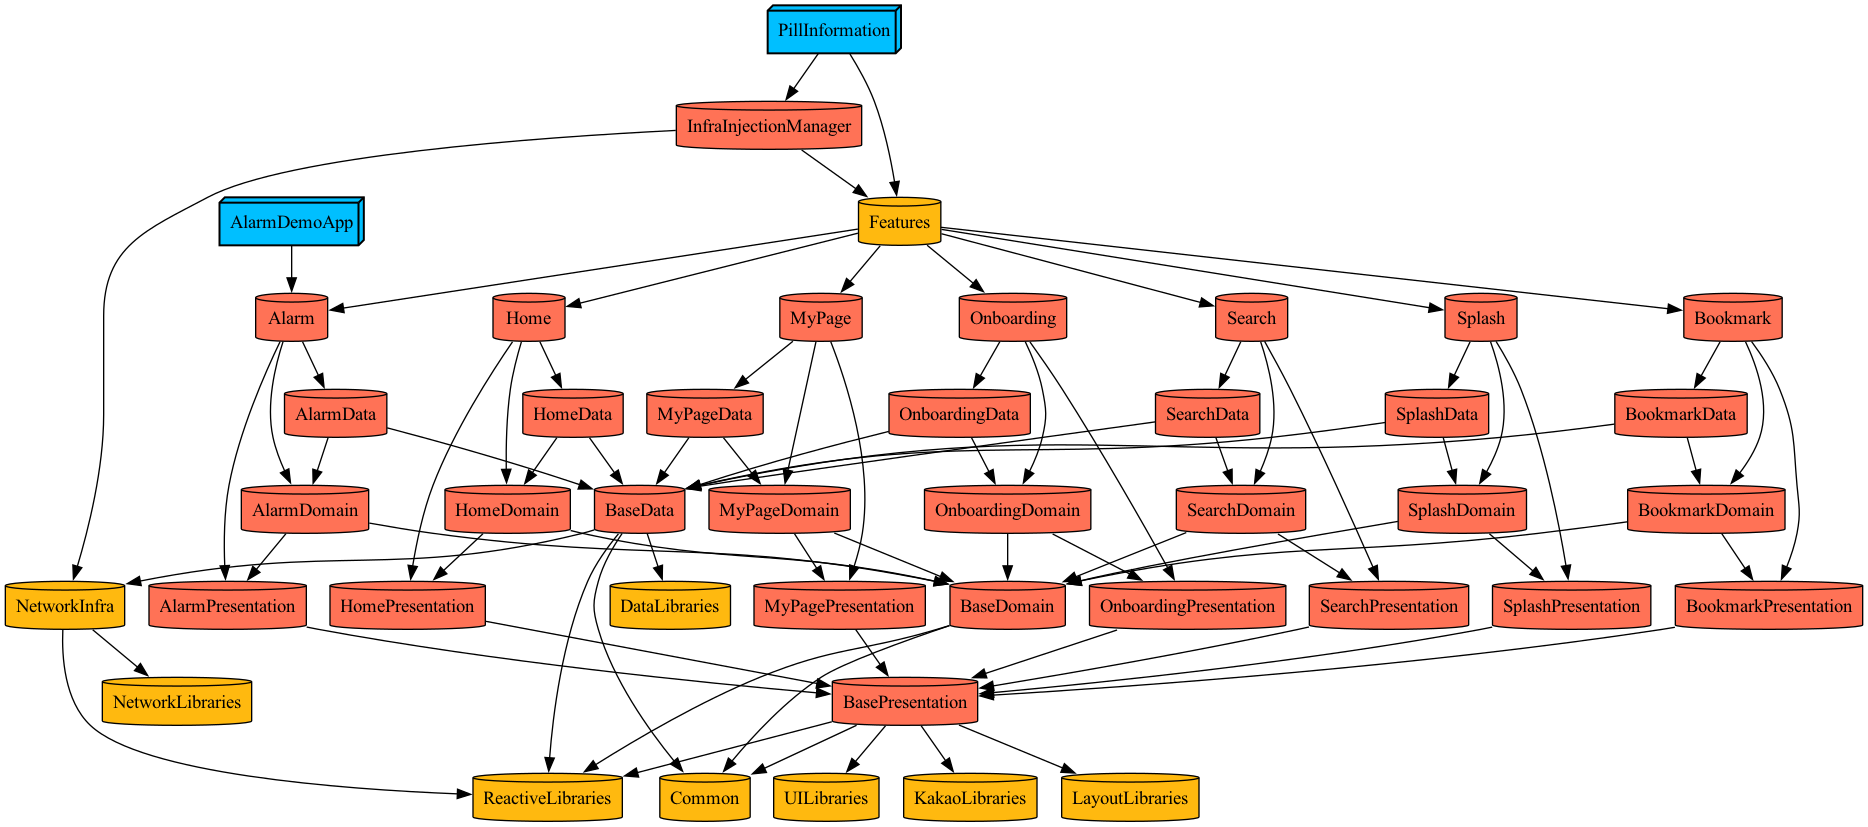
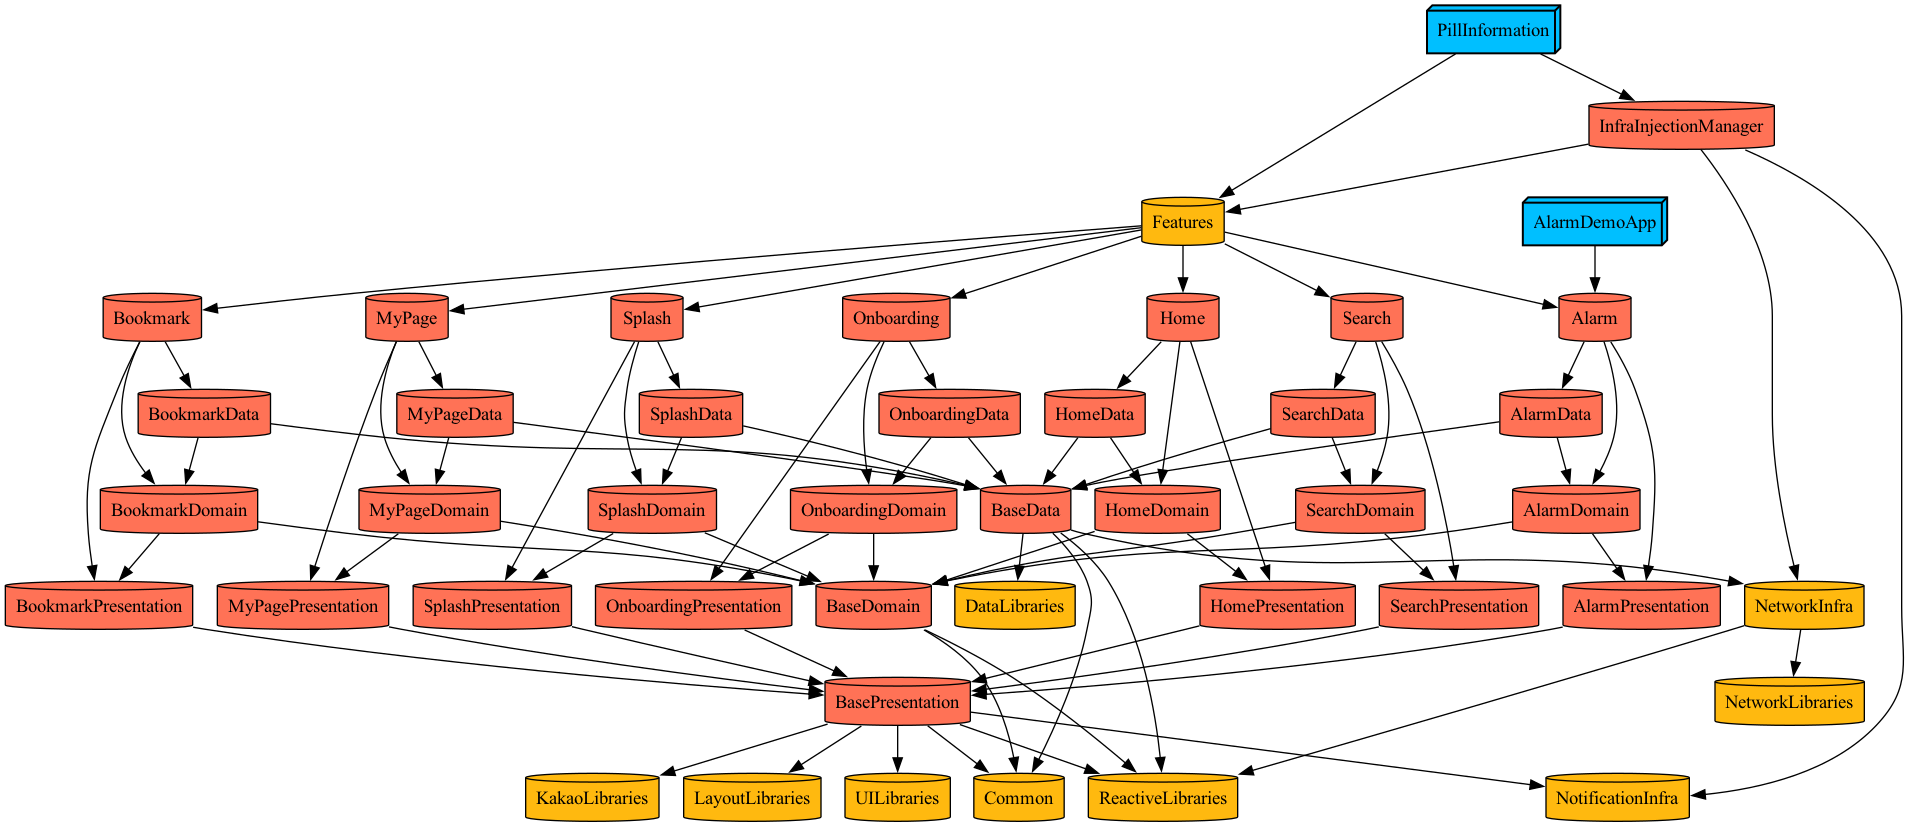
➕ UserNotification Module

diff --git a/Projects/Infrastructure/NotificationInfra/Sources/NotificationService.swift b/Projects/Infrastructure/NotificationInfra/Sources/NotificationService.swift
@@ -1,0 +1,105 @@
+//
+//  NotificationService.swift
+//  ProjectDescriptionHelpers
+//
+//  Created by JunHyeok Lee on 5/3/24.
+//
+
+import UIKit
+import RxSwift
+
+/// UNNotificationCenter를 사용하기 위한 Service
+public class NotificationService: NSObject {
+    private static let common: NotificationCommon = NotificationCommon()
+    private static let request: NotificationRequest = NotificationRequest()
+}
+
+// MARK: - Common
+extension NotificationService {
+    
+    /// Init UNNotificationCenter
+    public static func initService() {
+        common.initNotification()
+    }
+    
+    /// Requset UNNotification Authorization
+    /// - Parameters:
+    ///   - options: UNAuthorizationOptions (Default: [.alert, .badge, .sound])
+    ///   - completion: Esaping Closure
+    public static func requestAuthorization(options: UNAuthorizationOptions = [.alert, .badge, .sound],
+                                            completion: @escaping (Bool, Error?) -> Void) {
+        common.requestAuthorization(options: options, completion: completion)
+    }
+}
+
+// MARK: - Add Notification
+extension NotificationService {
+    
+    /// Add Notification
+    /// - Parameters:
+    ///   - id: Identifier
+    ///   - title: Title
+    ///   - body: Body(Message)
+    ///   - badge: Badge(Default: 1)
+    public static func addNotification(id: String,
+                                       title: String,
+                                       body: String,
+                                       badge: NSNumber = 1) {
+        let content = request.makeContent(title: title, body: body, badge: badge)
+        request.addNotification(id: id, content: content)
+    }
+    
+    /// Add Notification with Escaping Clouser
+    /// - Parameters:
+    ///   - id: Identifier
+    ///   - title: Title
+    ///   - body: Body(Message)
+    ///   - badge: Badge(Default: 1)
+    ///   - completion: Escaping Closure
+    public static func addNotification(id: String,
+                                       title: String,
+                                       body: String,
+                                       badge: NSNumber = 1,
+                                       completion: @escaping(((any Error)?) -> Void)) {
+        let content = request.makeContent(title: title, body: body, badge: badge)
+        request.addNotification(id: id, content: content, completion: completion)
+    }
+    
+    /// Add Trigger Notification
+    /// - Parameters:
+    ///   - id: Identifier
+    ///   - title: Title
+    ///   - body: Body(Message)
+    ///   - badge: Badge(Default: 1)
+    ///   - date: Date
+    ///   - repeats: Repeats
+    public static func addTriggerNotification(id: String,
+                                              title: String,
+                                              body: String,
+                                              badge: NSNumber = 1,
+                                              date: DateComponents,
+                                              repeats: Bool) {
+        let content = request.makeContent(title: title, body: body, badge: badge)
+        request.addNotification(id: id, content: content, date: date, repeats: repeats)
+    }
+    
+    /// Add Trigger Notification with Escaping Closure
+    /// - Parameters:
+    ///   - id: Identifier
+    ///   - title: Title
+    ///   - body: Body(Message)
+    ///   - badge: Badge(Default: 1)
+    ///   - date: Date
+    ///   - repeats: Repeats
+    ///   - completion: Escaping Closure
+    public static func addTriggerNotification(id: String,
+                                              title: String,
+                                              body: String,
+                                              badge: NSNumber = 1,
+                                              date: DateComponents,
+                                              repeats: Bool,
+                                              completion: @escaping(((any Error)?) -> Void)) {
+        let content = request.makeContent(title: title, body: body, badge: badge)
+        request.addNotification(id: id, content: content, date: date, repeats: repeats, completion: completion)
+    }
+}

diff --git a/Projects/Infrastructure/NotificationInfra/Sources/NotificationRequest.swift b/Projects/Infrastructure/NotificationInfra/Sources/NotificationRequest.swift
@@ -1,0 +1,96 @@
+//
+//  NotificationRequest.swift
+//  NotificationInfra
+//
+//  Created by JunHyeok Lee on 5/3/24.
+//  Copyright © 2024 com.junhyeok.PillInformation. All rights reserved.
+//
+
+import Foundation
+import UserNotifications
+
+final class NotificationRequest {
+    
+    
+    /// Add Notification
+    /// - Parameters:
+    ///   - id: Identifier
+    ///   - content: UNMutableNotificationContent
+    func addNotification(id: String,
+                         content: UNMutableNotificationContent) {
+        let request = UNNotificationRequest(identifier: id,
+                                            content: content,
+                                            trigger: nil)
+        UNUserNotificationCenter.current().add(request)
+    }
+    
+    
+    /// Add Notification With Completion
+    /// - Parameters:
+    ///   - id: Identifier
+    ///   - content: UNMutableNotificationContent
+    ///   - completion: Escaping Closure
+    func addNotification(id: String,
+                         content: UNMutableNotificationContent,
+                         completion: @escaping(((any Error)?) -> Void)) {
+        let request = UNNotificationRequest(identifier: id,
+                                            content: content,
+                                            trigger: nil)
+        UNUserNotificationCenter.current().add(request, withCompletionHandler: completion)
+    }
+    
+    
+    /// Add Trigger Notification
+    /// - Parameters:
+    ///   - id: Identifier
+    ///   - content: UNMutableNotificationContent
+    ///   - date: Date
+    ///   - repeats: Repeats
+    func addNotification(id: String,
+                         content: UNMutableNotificationContent,
+                         date: DateComponents,
+                         repeats: Bool) {
+        let trigger = UNCalendarNotificationTrigger(dateMatching: date, repeats: repeats)
+        let request = UNNotificationRequest(identifier: id,
+                                            content: content,
+                                            trigger: trigger)
+        UNUserNotificationCenter.current().add(request)
+    }
+    
+    /// Add Trigger Notification
+    /// - Parameters:
+    ///   - id: Identifier
+    ///   - content: UNMutableNotificationContent
+    ///   - date: Date
+    ///   - repeats: Repeats
+    ///   - completion: Escaping Closure
+    func addNotification(id: String,
+                         content: UNMutableNotificationContent,
+                         date: DateComponents,
+                         repeats: Bool,
+                         completion: @escaping(((any Error)?) -> Void)) {
+        let trigger = UNCalendarNotificationTrigger(dateMatching: date, repeats: repeats)
+        let request = UNNotificationRequest(identifier: id,
+                                            content: content,
+                                            trigger: trigger)
+        UNUserNotificationCenter.current().add(request, withCompletionHandler: completion)
+    }
+    
+    /// Make Notification Content
+    /// - Parameters:
+    ///   - title: Title
+    ///   - body: Body(Message)
+    ///   - sound: Sound (Default: .default)
+    ///   - badge: badge (Default: 1)
+    func makeContent(title: String,
+                             body: String,
+                             sound: UNNotificationSound = .default,
+                             badge: NSNumber = 1) -> UNMutableNotificationContent {
+        let content = UNMutableNotificationContent()
+        content.title = title
+        content.body = body
+        content.sound = sound
+        content.badge = badge
+        return content
+    }
+}

diff --git a/Projects/Infrastructure/NotificationInfra/Sources/NotificationCommon.swift b/Projects/Infrastructure/NotificationInfra/Sources/NotificationCommon.swift
@@ -1,0 +1,42 @@
+//
+//  NotificationCommon.swift
+//  NotificationInfra
+//
+//  Created by JunHyeok Lee on 5/3/24.
+//  Copyright © 2024 com.junhyeok.PillInformation. All rights reserved.
+//
+
+import Foundation
+import UserNotifications
+
+final class NotificationCommon: NSObject {
+    
+    /// Init UNUserNotificationCenter
+    func initNotification() {
+        UNUserNotificationCenter.current().delegate = self
+    }
+    
+    
+    /// Request UNUserNotification Authorization
+    /// - Parameters:
+    ///   - options: UNAuthorizationOptions
+    ///   - completion: Escaping Closure
+    func requestAuthorization(options: UNAuthorizationOptions,
+                              completion: @escaping (Bool, (any Error)?) -> Void) {
+        UNUserNotificationCenter.current().requestAuthorization(options: options, completionHandler: completion)
+    }
+    
+    
+}
+
+extension NotificationCommon: UNUserNotificationCenterDelegate {
+    public func userNotificationCenter(_ center: UNUserNotificationCenter, willPresent notification: UNNotification) async -> UNNotificationPresentationOptions {
+        return [.badge, .list, .banner, .sound]
+    }
+    
+    /// 인앱 처리
+    /// response.notification.request.content.userInfo
+    public func userNotificationCenter(_ center: UNUserNotificationCenter, didReceive response: UNNotificationResponse) async {
+        
+    }
+}

diff --git a/Projects/Application/Sources/AppDelegate.swift b/Projects/Application/Sources/AppDelegate.swift
@@ -10,14 +10,27 @@ import UIKit
 import IQKeyboardManagerSwift
 
 import KakaoLibraries
+import NotificationInfra
 
 @main
 class AppDelegate: UIResponder, UIApplicationDelegate {
     func application(_ application: UIApplication, didFinishLaunchingWithOptions launchOptions: [UIApplication.LaunchOptionsKey : Any]?) -> Bool {
+        
+        /// Notification
+        NotificationService.initService()
+        NotificationService.requestAuthorization() { auth, error in
+            if let error = error {
+                print("Error: \(error)")
+            }
+        }
+        
+        /// Init KakaoSDK
         if let appConfigurations = Bundle.main.infoDictionary?["AppConfigurations"] as? [String: String],
            let kakaoNativeAppKey = appConfigurations["KAKAO_NATIVE_APP_KEY"] {
             KakaoService.initSDK(appKey: kakaoNativeAppKey)
         }
+        
+        /// IQKeyboardManager
         IQKeyboardManager.shared.enable = true
         IQKeyboardManager.shared.resignOnTouchOutside = true
         return true

diff --git a/Projects/Feature/Alarm/Demo/Sources/Application/AppDelegate.swift b/Projects/Feature/Alarm/Demo/Sources/Application/AppDelegate.swift
@@ -9,11 +9,22 @@
 import UIKit
 import IQKeyboardManagerSwift
 
+import NotificationInfra
+
 @main
 class AppDelegate: UIResponder, UIApplicationDelegate {
     func application(_ application: UIApplication, didFinishLaunchingWithOptions launchOptions: [UIApplication.LaunchOptionsKey : Any]?) -> Bool {
+        
+        NotificationService.initService()
+        NotificationService.requestAuthorization() { auth, error in
+            if let error = error {
+                print("Error: \(error)")
+            }
+        }
+        
         IQKeyboardManager.shared.enable = true
         IQKeyboardManager.shared.resignOnTouchOutside = true
+        
         return true
     }
     

diff --git a/Tuist/ProjectDescriptionHelpers/Dependencies/Dependency+Project.swift b/Tuist/ProjectDescriptionHelpers/Dependencies/Dependency+Project.swift
@@ -94,6 +94,7 @@ public extension TargetDependency.Project.Feature.Data {
 // MARK: - Infrastructure
 public extension TargetDependency.Project.Infrastructure {
     static let Network: TargetDependency = .project(layer: .Infrastructure, name: "NetworkInfra")
+    static let Notification: TargetDependency = .project(layer: .Infrastructure, name: "NotificationInfra")
 }
 
 // MARK: - LibraryManager

diff --git a/Projects/Infrastructure/NotificationInfra/Project.swift b/Projects/Infrastructure/NotificationInfra/Project.swift
@@ -1,0 +1,14 @@
+//
+//  Project.swift
+//  ProjectDescriptionHelpers
+//
+//  Created by JunHyeok Lee on 5/3/24.
+//
+
+import ProjectDescription
+import ProjectDescriptionHelpers
+
+let project: Project = .project(
+    name: "NotificationInfra",
+    product: .framework
+)

diff --git a/Projects/Presentation/BasePresentation/Project.swift b/Projects/Presentation/BasePresentation/Project.swift
@@ -16,6 +16,7 @@ let project: Project = .project(
         .Project.LibraryManager.KakaoLibraries,
         .Project.LibraryManager.LayoutLibraries,
         .Project.LibraryManager.UILibraries,
+        .Project.Infrastructure.Notification,
         .Project.Common
     ]
 )

diff --git a/Projects/InjectionManager/InfraInjectionManager/Project.swift b/Projects/InjectionManager/InfraInjectionManager/Project.swift
@@ -13,6 +13,7 @@ let project: Project = .project(
     product: .staticFramework,
     dependencies: [
         .Project.Infrastructure.Network,
+        .Project.Infrastructure.Notification,
         .Project.Feature.Features
     ]
 )

diff --git a/Projects/Presentation/AlarmPresentation/Sources/Alarm/AlarmDetail/Reactor/AlarmDetailReactor.swift b/Projects/Presentation/AlarmPresentation/Sources/Alarm/AlarmDetail/Reactor/AlarmDetailReactor.swift
@@ -11,6 +11,8 @@ import ReactorKit
 import RxSwift
 import RxCocoa
 
+import NotificationInfra
+
 public struct AlarmDetailFlowAction {
     let popViewController: (Bool) -> Void
     

diff --git a/Projects/Infrastructure/NotificationInfra/Resources/Resource.swift b/Projects/Infrastructure/NotificationInfra/Resources/Resource.swift
@@ -1,0 +1,8 @@
+//
+//  Resource.swift
+//  ProjectDescriptionHelpers
+//
+//  Created by JunHyeok Lee on 5/3/24.
+//
+
+import Foundation

diff --git a/Projects/Infrastructure/NotificationInfra/Tests/Test.swift b/Projects/Infrastructure/NotificationInfra/Tests/Test.swift
@@ -1,0 +1,8 @@
+//
+//  Test.swift
+//  ProjectDescriptionHelpers
+//
+//  Created by JunHyeok Lee on 5/3/24.
+//
+
+import Foundation
